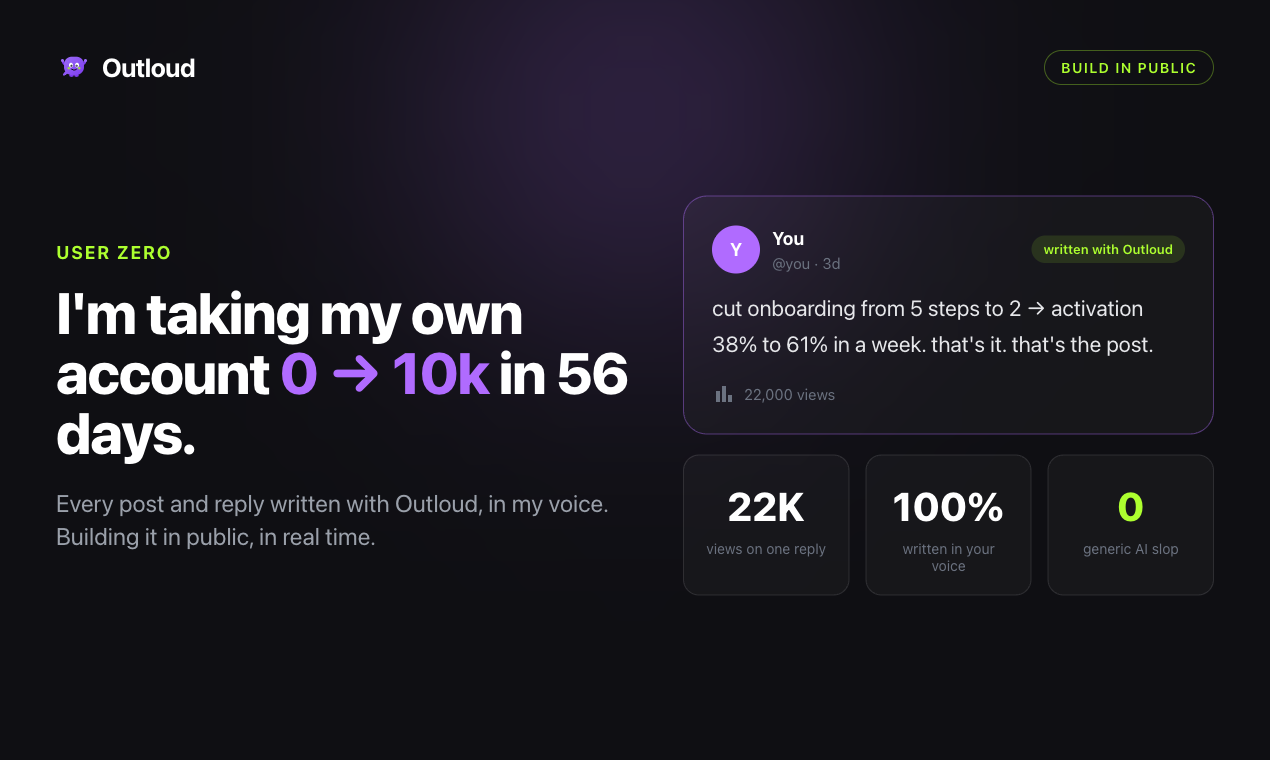
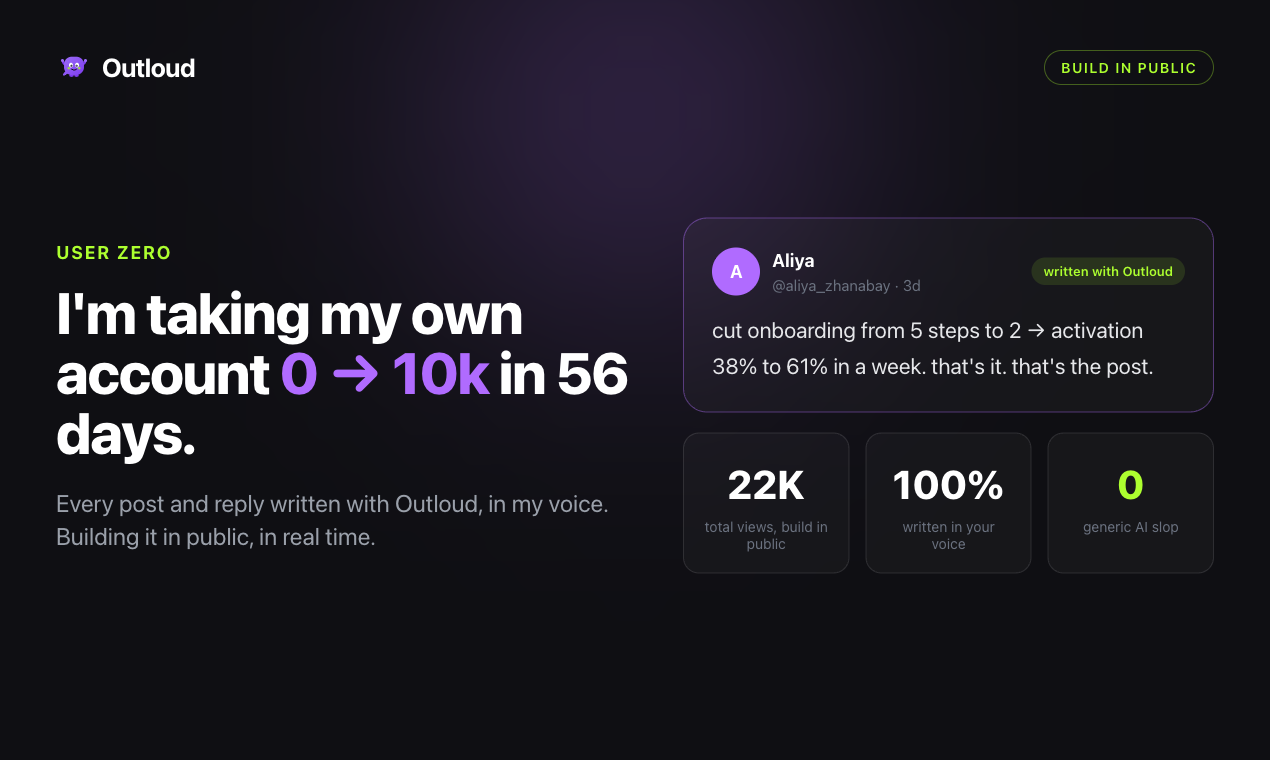
Fix proof copy, set real X handle

diff --git a/app/press/[id]/page.tsx b/app/press/[id]/page.tsx
@@ -178,9 +178,9 @@ function Frame3() {
               Generic AI
             </span>
             <TweetCard
-              name="Founder"
-              handle="@you"
-              avatar="F"
+              name="Aliya"
+              handle="@aliya_zhanabay"
+              avatar="A"
               avatarBg="#3a3a42"
               border="rgba(255,255,255,0.08)"
               body="🚀 Excited to share that we just shipped dark mode! Huge thanks to our amazing team for making it happen. Stay tuned for more exciting updates! 🙌 #buildinpublic #saas"
@@ -196,9 +196,9 @@ function Frame3() {
               You, on Outloud
             </span>
             <TweetCard
-              name="Founder"
-              handle="@you"
-              avatar="F"
+              name="Aliya"
+              handle="@aliya_zhanabay"
+              avatar="A"
               avatarBg={INDIGO}
               border={`${INDIGO}66`}
               tone="your voice"
@@ -237,9 +237,9 @@ function Frame4() {
           </span>
           <div className="flex-1">
             <TweetCard
-              name="You"
-              handle="@you · now"
-              avatar="Y"
+              name="Aliya"
+              handle="@aliya_zhanabay · now"
+              avatar="A"
               avatarBg={INDIGO}
               border={`${INDIGO}66`}
               tone="drafted in your voice"
@@ -316,19 +316,18 @@ function Frame6() {
         </div>
         <div className="flex flex-1 flex-col gap-5">
           <TweetCard
-            name="You"
-            handle="@you · 3d"
-            avatar="Y"
+            name="Aliya"
+            handle="@aliya_zhanabay · 3d"
+            avatar="A"
             avatarBg={INDIGO}
             border={`${INDIGO}66`}
             tone="written with Outloud"
             toneColor={LIME}
             body="cut onboarding from 5 steps to 2 → activation 38% to 61% in a week. that's it. that's the post."
-            views="22,000 views"
           />
           <div className="flex gap-4">
             {[
-              { k: 'views on one reply', v: '22K' },
+              { k: 'total views, build in public', v: '22K' },
               { k: 'written in your voice', v: '100%' },
               { k: 'generic AI slop', v: '0' },
             ].map((s) => (